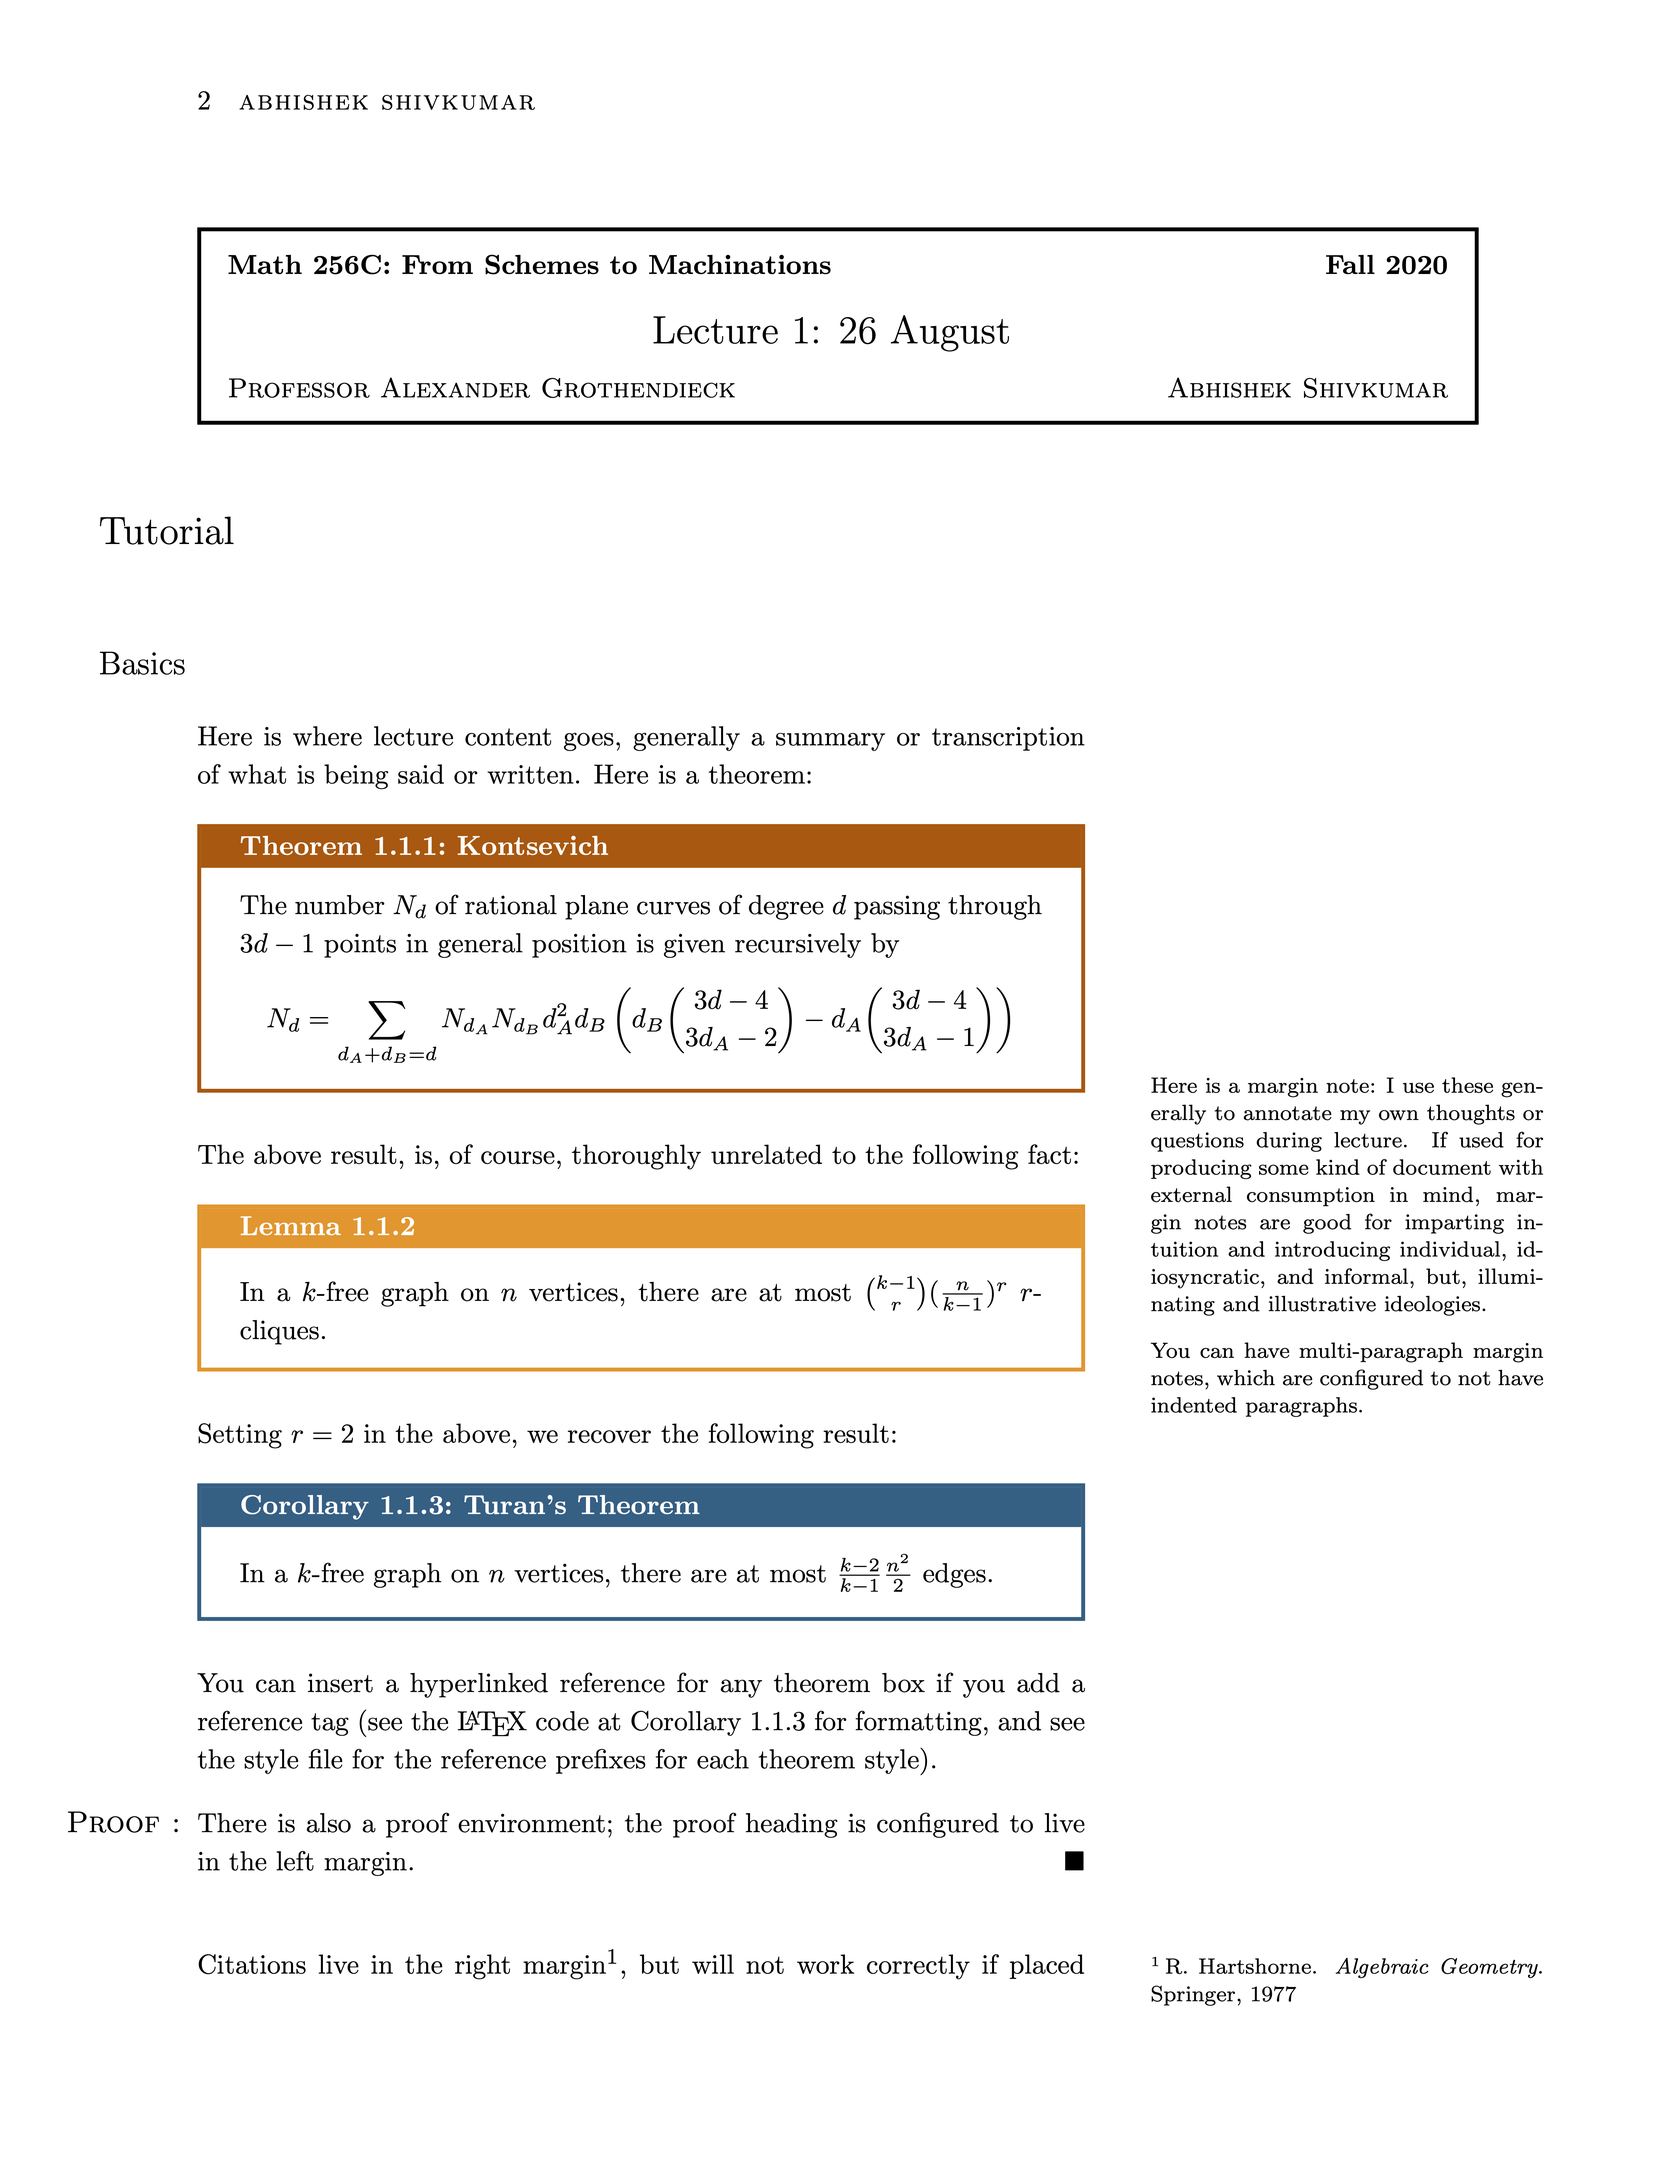
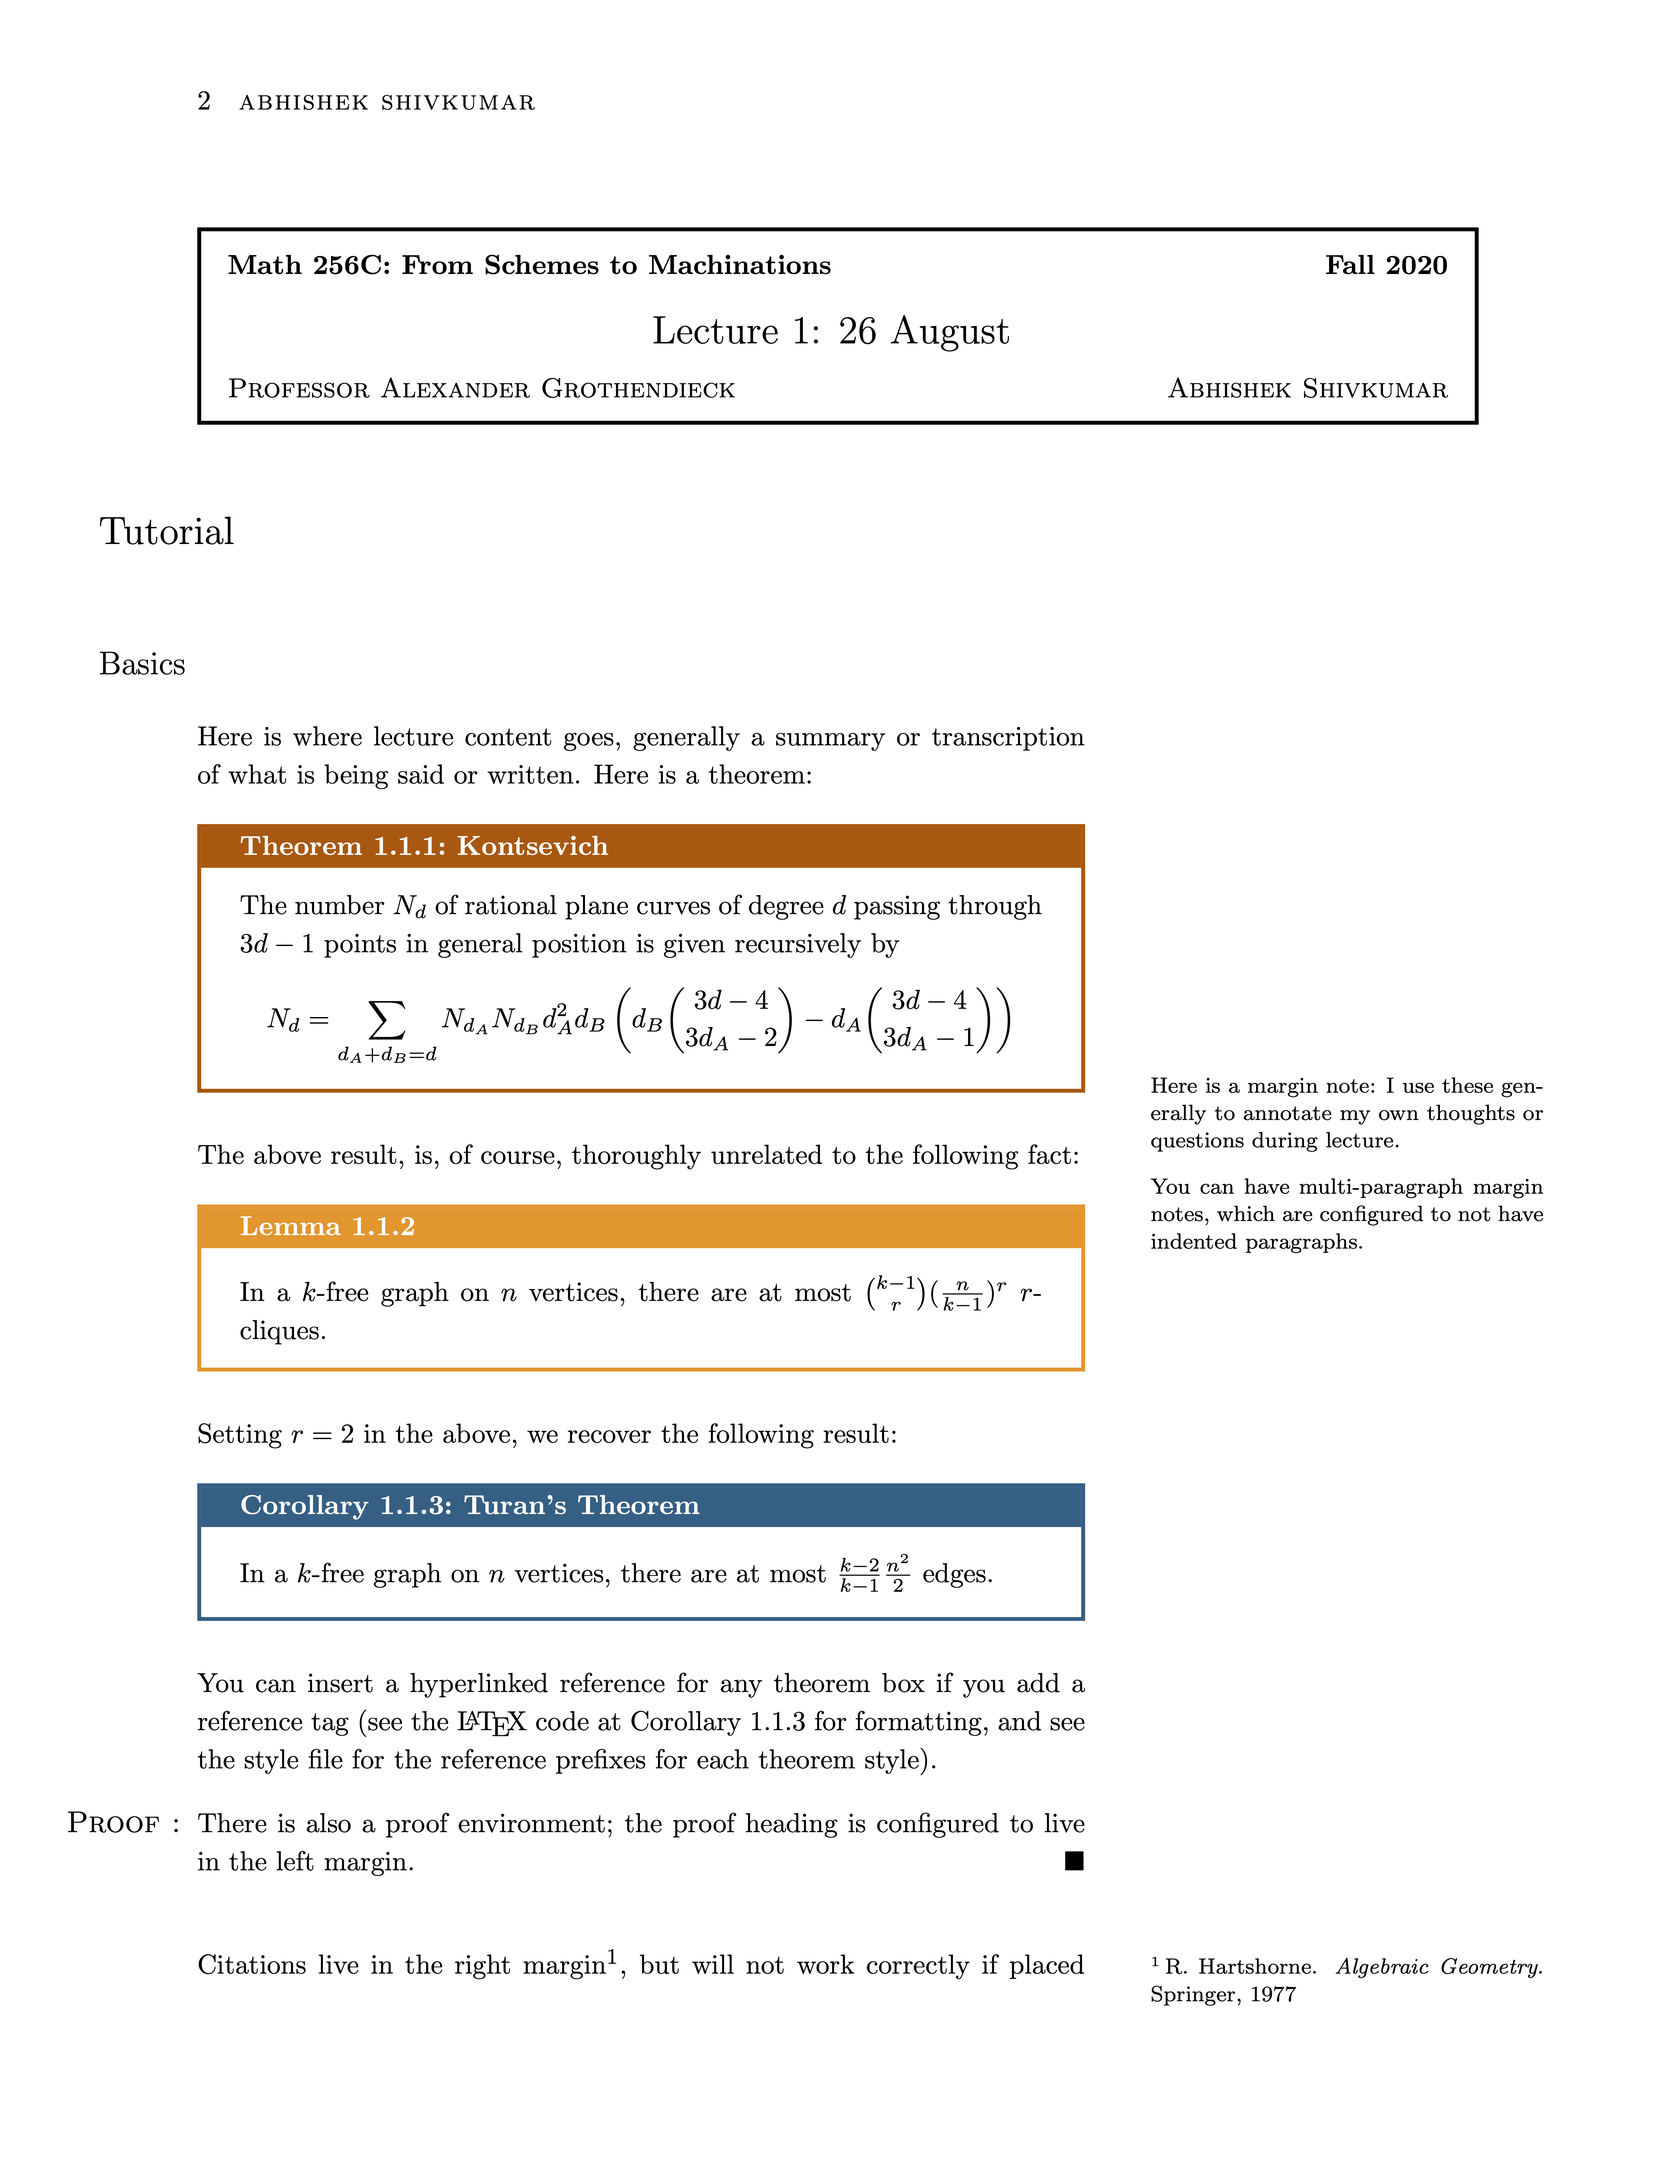
minor fixes

Changed region(s): [[0.6859, 0.4994, 0.9353, 0.6555]]

diff --git a/sample.tex b/sample.tex
@@ -36,7 +36,7 @@ Here is where lecture content goes, generally a summary or transcription of what
 \begin{theorem}[Kontsevich]
     The number $N_d$ of rational plane curves of degree $d$ passing through $3d-1$ points in general position is given recursively by $$N_d = \sum_{d_A + d_B = d} N_{d_A} N_{d_B} d_A^2 d_B\left(d_B\binom{3d-4}{3d_A -2} - d_A \binom{3d-4}{3d_A-1}\right)$$
 \end{theorem}
-\marginnote{Here is a margin note: I use these generally to annotate my own thoughts or questions during lecture. If used for producing some kind of document with external consumption in mind, margin notes are good for imparting intuition and introducing individual, idiosyncratic, and informal, but, illuminating and illustrative ideologies.
+\marginnote{Here is a margin note: I use these generally to annotate my own thoughts or questions during lecture.
 
 You can have multi-paragraph margin notes, which are configured to not have indented paragraphs.}
 

diff --git a/README.md b/README.md
@@ -10,6 +10,8 @@ This work is licensed under a
 [cc-by-nc-sa-image]: https://licensebuttons.net/l/by-nc-sa/4.0/88x31.png
 [cc-by-nc-sa-shield]: https://img.shields.io/badge/License-CC%20BY--NC--SA%204.0-lightgrey.svg
 
-Style file for Tufte-style notes in LaTeX, intended for Live-TeXing during a lecture. The main body of the text roughly corresponds to the actual content of the lecture, and marginnotes are used to write down questions about the lecture, comments, intuitive descriptions of technical definitions, etc. These two parallel tracks of discussion mirror my preferred style of math pedagogy, with alternating technical and intuitive discussions.
+Style file for Tufte-style notes in LaTeX, intended for Live-TeXing during a lecture. The main body of the text roughly corresponds to the actual content of the lecture, and margin notes are used to write down questions about the lecture, comments, intuitive descriptions of technical definitions, etc. These two parallel tracks of discussion mirror my preferred style of math pedagogy, with alternating technical and intuitive discussions.
+
+Use `\[...\]` rather than `$$...$$` to get the black square in the right place at the end of the proof (this is the only convincing reason to do this that I've ever read).
 
 ![sample page](https://raw.githubusercontent.com/ultravioletcatastrophe/Latex-Notes-Template/main/sample.png)
